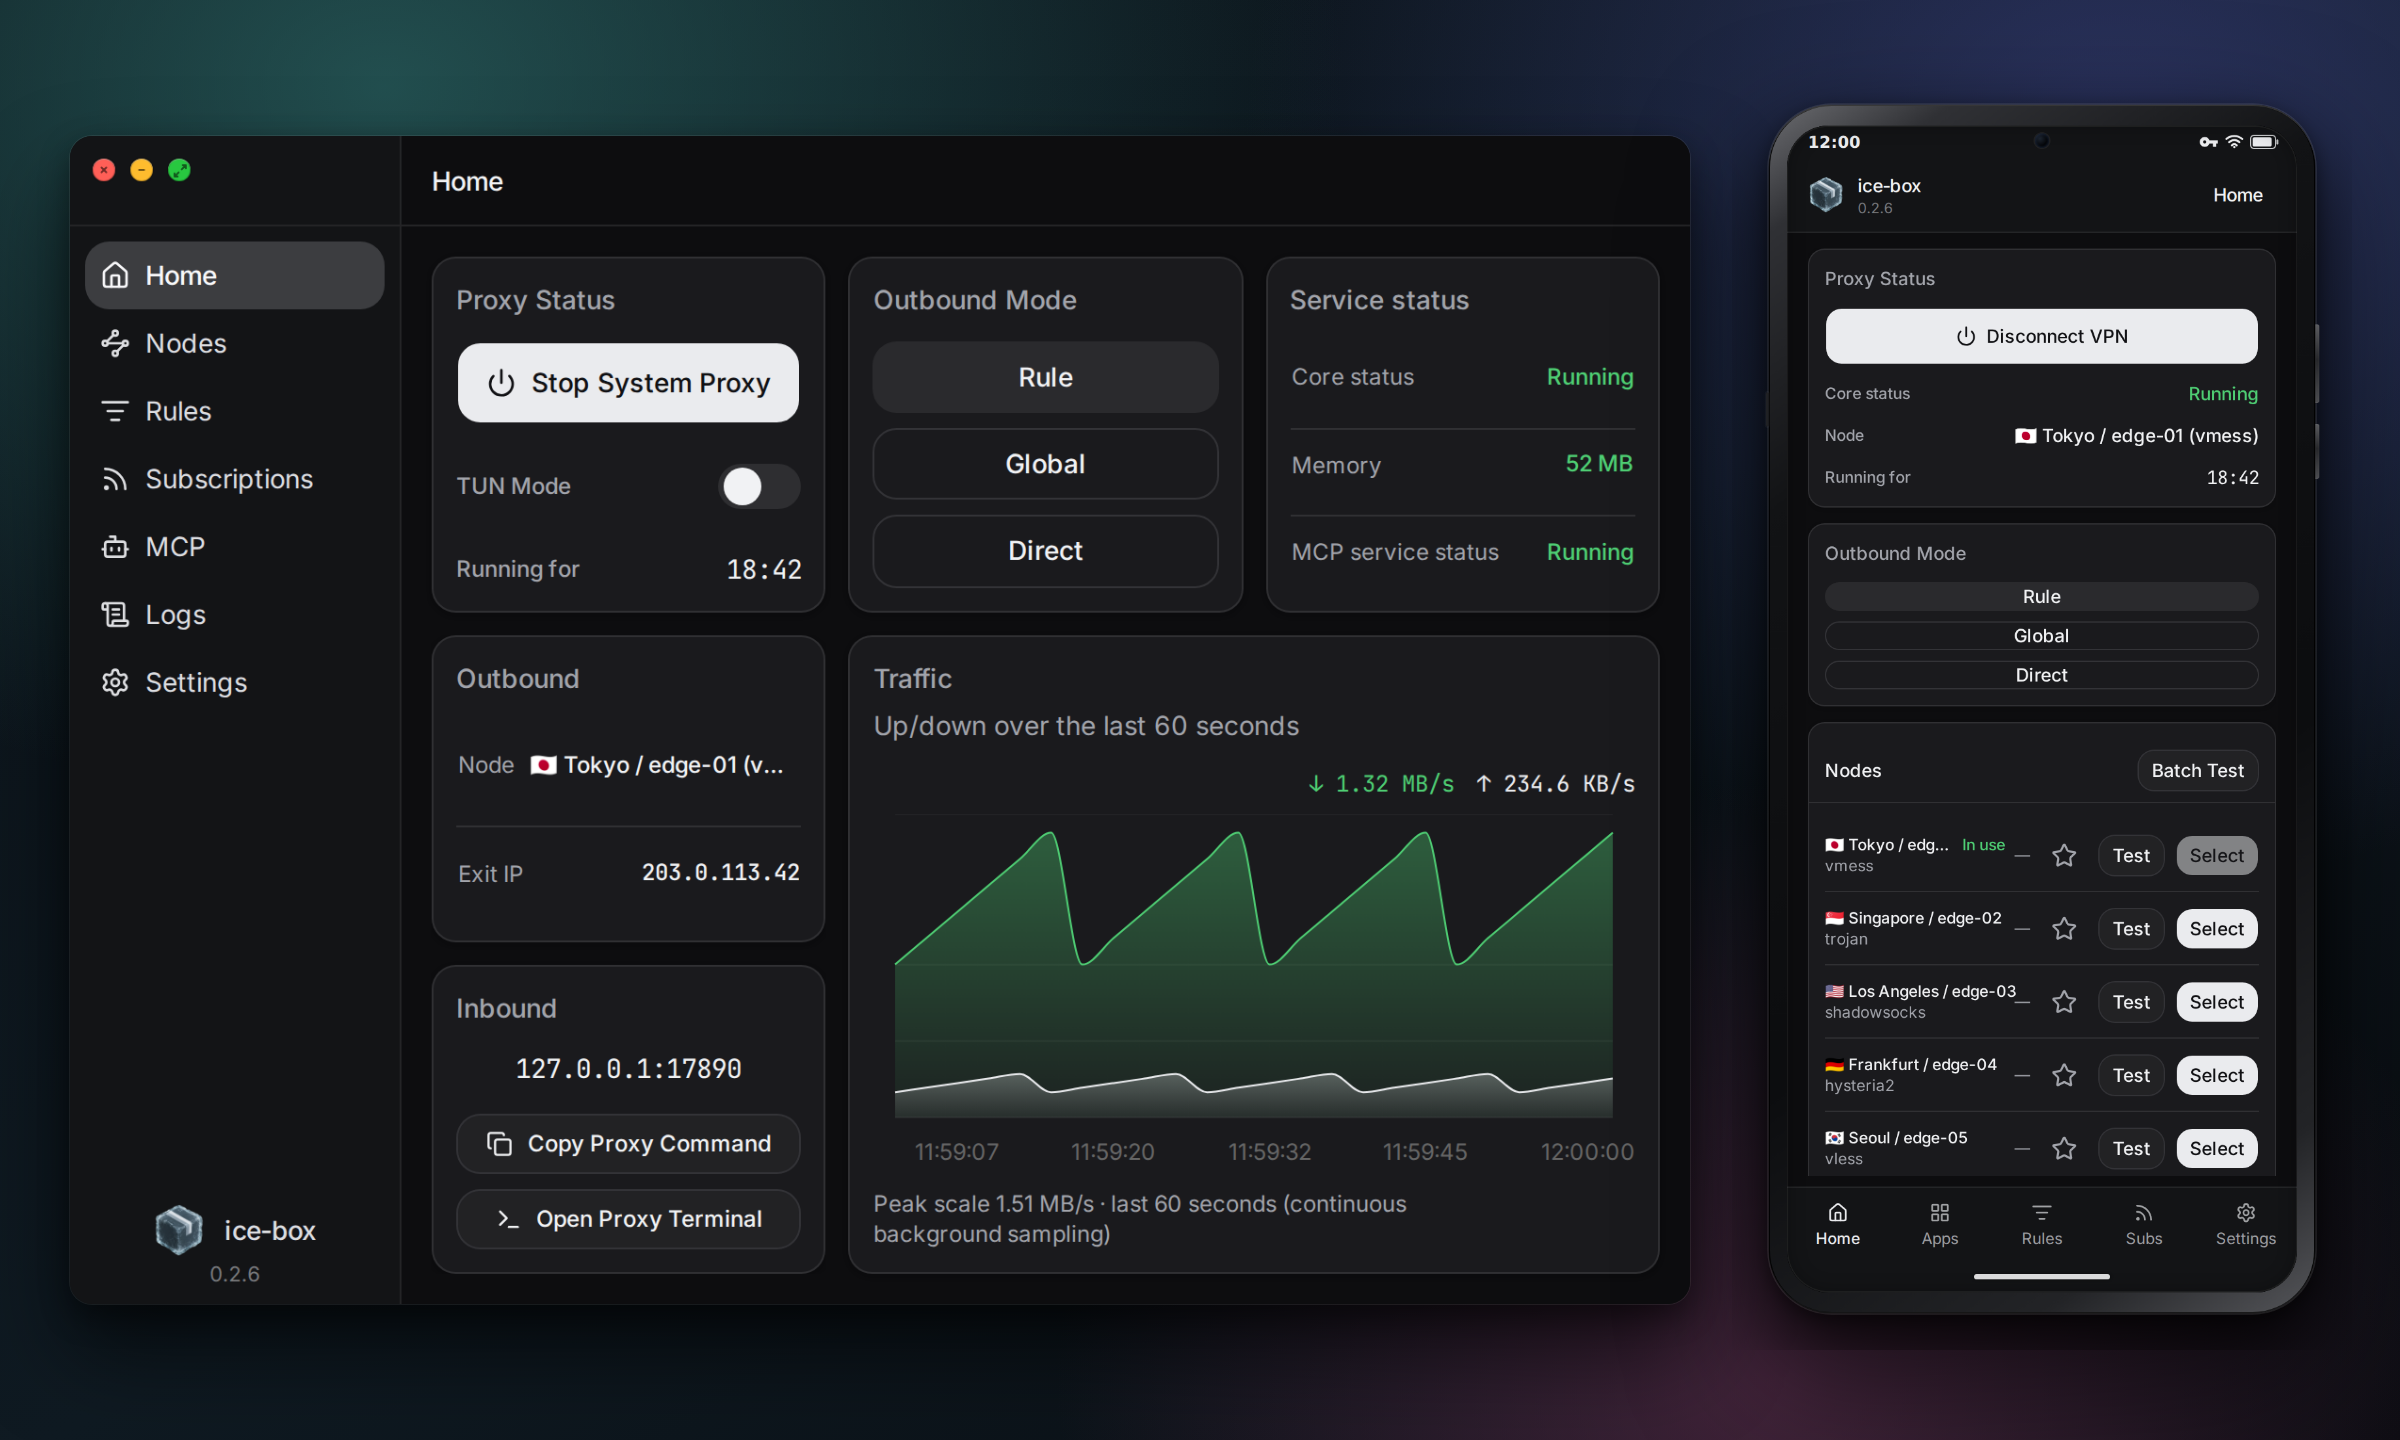
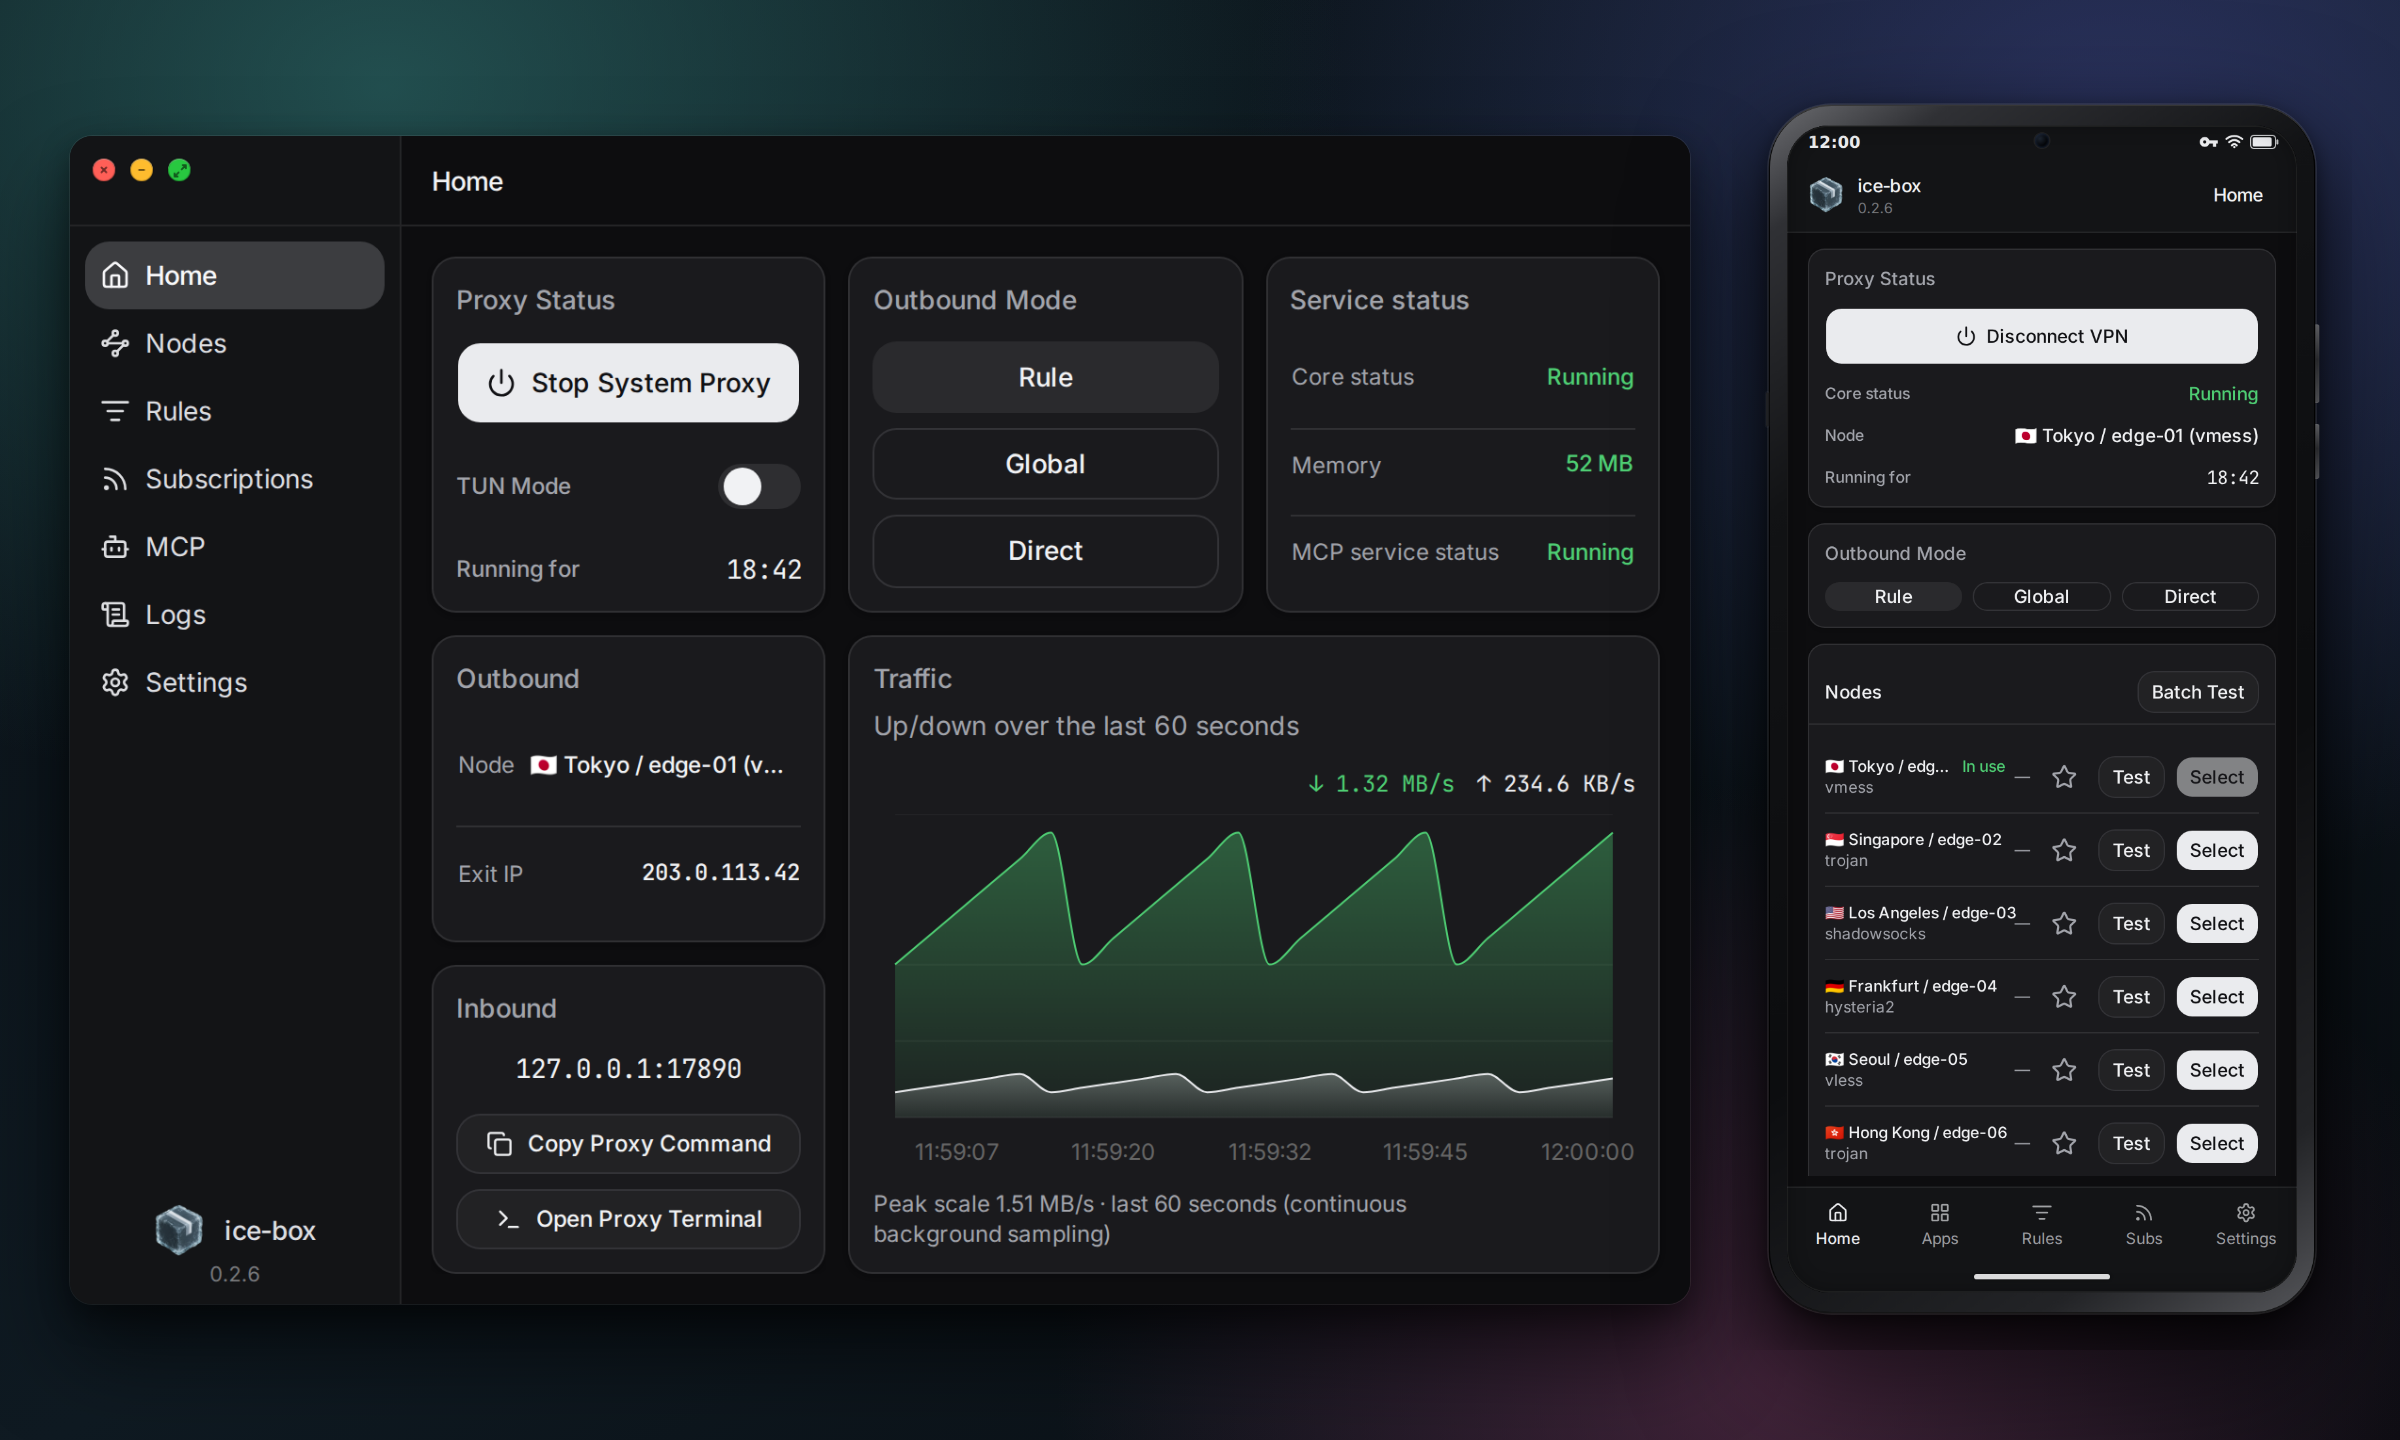
feat(mobile): show the outbound mode switch in one row

Changed region(s): [[0.75, 0.4688, 0.9375, 0.8125], [0.8438, 0.4062, 0.875, 0.4688], [0.75, 0.4688, 0.7812, 0.5]]

diff --git a/apps/desktop/src/pages/Home.tsx b/apps/desktop/src/pages/Home.tsx
@@ -1006,7 +1006,7 @@ export function Home({ onBusyChange, onNavigate, active = true, onStatus }: Prop
               type="single"
               variant="outline"
               size="sm"
-              orientation="vertical"
+              orientation={phone ? "horizontal" : "vertical"}
               spacing={2}
               value={proxyMode}
               onValueChange={(value) => {
@@ -1015,11 +1015,15 @@ export function Home({ onBusyChange, onNavigate, active = true, onStatus }: Prop
                 }
               }}
               disabled={modeBusy || busy}
-              className="flex w-full flex-1 flex-col"
+              className={cn("flex w-full", phone ? "flex-row" : "flex-1 flex-col")}
               aria-label={t("home.modeAria")}
             >
               {PROXY_MODE_KEYS.map(([mode, labelKey]) => (
-                <ToggleGroupItem key={mode} value={mode} className="h-auto w-full flex-1">
+                <ToggleGroupItem
+                  key={mode}
+                  value={mode}
+                  className={cn("h-auto flex-1", phone ? "min-w-0" : "w-full")}
+                >
                   {t(labelKey)}
                 </ToggleGroupItem>
               ))}

diff --git a/apps/desktop/src/pages/Home.test.tsx b/apps/desktop/src/pages/Home.test.tsx
@@ -248,7 +248,10 @@ describe("Home", () => {
     expect(
       within(statusCard).queryByRole("radiogroup", { name: t("home.modeAria") }),
     ).toBeNull();
-    expect(view.getByRole("radiogroup", { name: t("home.modeAria") })).toBeInTheDocument();
+    expect(view.getByRole("radiogroup", { name: t("home.modeAria") })).toHaveAttribute(
+      "data-orientation",
+      "vertical",
+    );
     expect(view.getByRole("radio", { name: t("home.mode.rule") })).toHaveAttribute("data-state", "on");
     expect(view.getByRole("radio", { name: t("home.mode.global") })).toHaveAttribute("data-state", "off");
     expect(view.getByRole("radio", { name: t("home.mode.direct") })).toHaveAttribute("data-state", "off");
@@ -528,6 +531,11 @@ describe("Home", () => {
     phoneShell.value = true;
     const { container } = render(<Home />);
     const view = within(container);
+
+    expect(view.getByRole("radiogroup", { name: t("home.modeAria") })).toHaveAttribute(
+      "data-orientation",
+      "horizontal",
+    );
 
     await waitFor(() => {
       expect(view.getByTestId("home-proxy-core-status")).toHaveTextContent(

diff --git a/CHANGELOG.md b/CHANGELOG.md
@@ -3,6 +3,13 @@
 All notable changes to this project are documented in this file.
 The format is based on [Keep a Changelog](https://keepachangelog.com/en/1.1.0/).
 
+## [Unreleased]
+
+### Changed
+
+- The phone Home screen renders the outbound mode switch (Rule / Global /
+  Direct) as a single horizontal row instead of a vertical stack.
+
 ## [0.2.6] - 2026-11-02
 
 ### Changed
